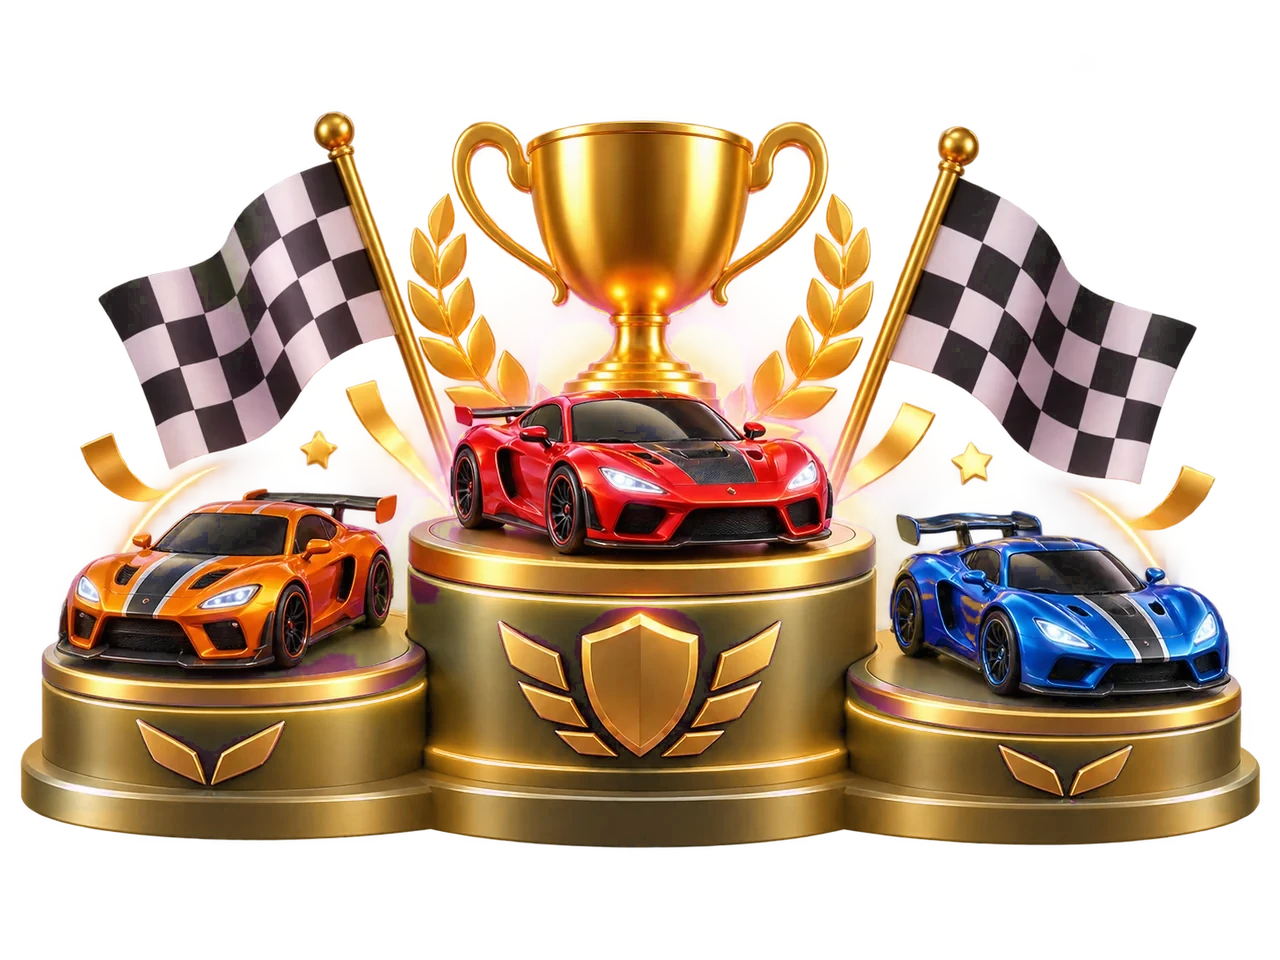
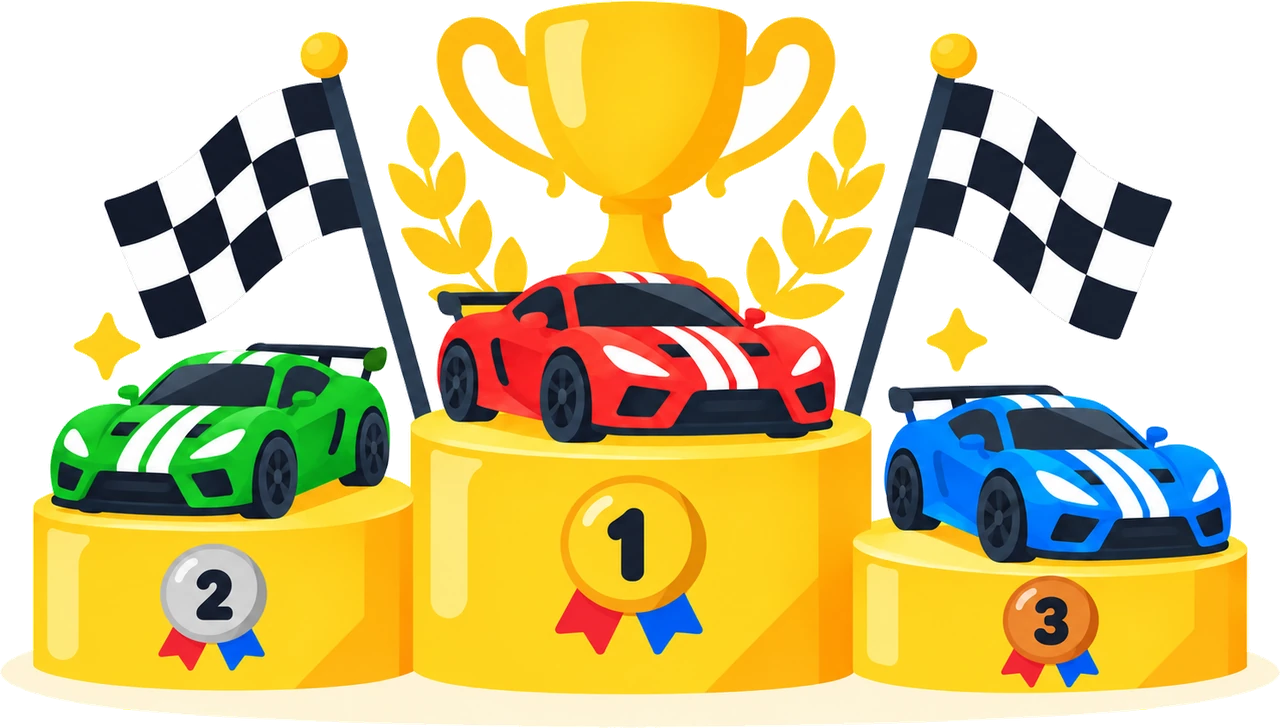
Swap in the supplied Hot Wheels campaign artwork
Four assets replaced in place, so nothing that references them had to change:

  Race It Home Logo        -> race-it-home-wordmark.webp
  Race it home hero image  -> 06-campaign-hub-hero.webp
  leaderboard              -> 18-leaderboard-hero.webp
  race your friends        -> 20-refer-a-friend-hero.webp

The two spot illustrations arrived on a white ground where the assets they
replace had alpha, so they are keyed by a flood fill that only reaches white
CONNECTED to the border. White inside the art — the stripes on the cars, the
light squares of a chequered flag — is never touched, and the fill refuses to
run at all if the border is not actually white. I checked the result against
magenta before committing rather than trusting the guard: stripes, flags and
the cast shadows all survive.

The lockup was 6144x4096 with most of that empty; trimmed to its alpha bounds
it is 2.18:1 against the old art's 1.46:1, so holding the old 100px width would
have quietly shrunk the campaign name by a third on the band. Width is set from
the new ratio to keep the same height: 150px, measured at 150x69 against the
old 68.

The conversion is kept as scripts/import-campaign-art.py so the next batch does
not start from guesswork.

diff --git a/src/styles/base.css b/src/styles/base.css
@@ -502,13 +502,16 @@ input, select, textarea { font: inherit; color: inherit; }
      glowing ICE CREAM word, the ornamental Diwali masthead. Cutting it to
      132px to save space took the occasion out of it. Back up, but short of the
      218px billboard that pushed the shop off the screen. */
+  /* Widths are set so the lockup keeps the same HEIGHT on the band. The new
+     artwork is 2.18:1 against the old 1.46:1, so holding the old 100px width
+     would have quietly shrunk the campaign name by a third. */
   margin: 14px auto 0;
-  max-width: 100px;
+  max-width: 150px;
   line-height: 0;
   filter: drop-shadow(0 6px 18px rgba(255, 120, 20, 0.45));
 }
 .ctake__t img { width: 100%; height: auto; display: block; }
-@media (min-width: 768px) { .ctake__t { max-width: 260px; } }
+@media (min-width: 768px) { .ctake__t { max-width: 330px; } }
 
 
 

diff --git a/scripts/import-campaign-art.py b/scripts/import-campaign-art.py
@@ -1,0 +1,74 @@
+from PIL import Image
+from collections import deque
+import sys, os
+
+SRC = '/Users/digvijay/Downloads/Hotwheels Image Assets'
+DST = '/Users/digvijay/Downloads/blinkit/public/campaign'
+
+def key_white(im, thresh=246):
+    """Flood-fill the white surround to transparent, from the border inwards.
+
+    Only reaches pixels connected to the edge, so white INSIDE the art — the
+    stripes on the cars, the light squares of a chequered flag — is never
+    touched. Guarded: if the border is not actually white we refuse, which is
+    what stops this being run on a dark scene by mistake."""
+    im = im.convert('RGBA')
+    w, h = im.size
+    px = im.load()
+    border = [px[x, 0] for x in range(0, w, 7)] + [px[x, h-1] for x in range(0, w, 7)] \
+           + [px[0, y] for y in range(0, h, 7)] + [px[w-1, y] for y in range(0, h, 7)]
+    worst = min(min(p[0], p[1], p[2]) for p in border)
+    if worst < 225:
+        raise SystemExit(f'refusing to key: darkest border channel is {worst}, not a white surround')
+    seen = bytearray(w * h)
+    q = deque()
+    for x in range(w):
+        for y in (0, h-1):
+            q.append((x, y))
+    for y in range(h):
+        for x in (0, w-1):
+            q.append((x, y))
+    hit = 0
+    while q:
+        x, y = q.popleft()
+        if x < 0 or y < 0 or x >= w or y >= h:
+            continue
+        i = y * w + x
+        if seen[i]:
+            continue
+        seen[i] = 1
+        r, g, b, a = px[x, y]
+        if min(r, g, b) < thresh:
+            continue
+        px[x, y] = (r, g, b, 0)
+        hit += 1
+        q.extend(((x+1, y), (x-1, y), (x, y+1), (x, y-1)))
+    return im, hit
+
+def save(im, name, width, q=88):
+    im = im.copy()
+    if im.width != width:
+        im = im.resize((width, round(im.height * width / im.width)), Image.LANCZOS)
+    out = os.path.join(DST, name)
+    im.save(out, 'WEBP', quality=q, method=6)
+    print(f'{name:34s} {im.size[0]}x{im.size[1]}  {os.path.getsize(out)//1024}K')
+
+# 1. the lockup: already transparent, just trimmed of its dead margin
+logo = Image.open(f'{SRC}/Race It Home Logo.png').convert('RGBA')
+logo = logo.crop(logo.getchannel('A').getbbox())
+print('logo trimmed to', logo.size)
+save(logo, 'race-it-home-wordmark.webp', 1200, q=92)
+
+# 2. the hub hero: a full-bleed illustration, no alpha wanted
+hero = Image.open(f'{SRC}/Race it home hero image.png').convert('RGB')
+save(hero, '06-campaign-hub-hero.webp', 1440, q=84)
+
+# 3 + 4. the two spot illustrations, keyed off their white ground
+for src, name, width in [('leaderboard.png', '18-leaderboard-hero.webp', 1280),
+                         ('race your friends.png', '20-refer-a-friend-hero.webp', 1280)]:
+    im = Image.open(f'{SRC}/{src}')
+    im, hit = key_white(im)
+    pct = 100 * hit / (im.width * im.height)
+    print(f'{src}: keyed {pct:.1f}% of pixels')
+    im = im.crop(im.getchannel('A').getbbox())
+    save(im, name, width, q=90)
